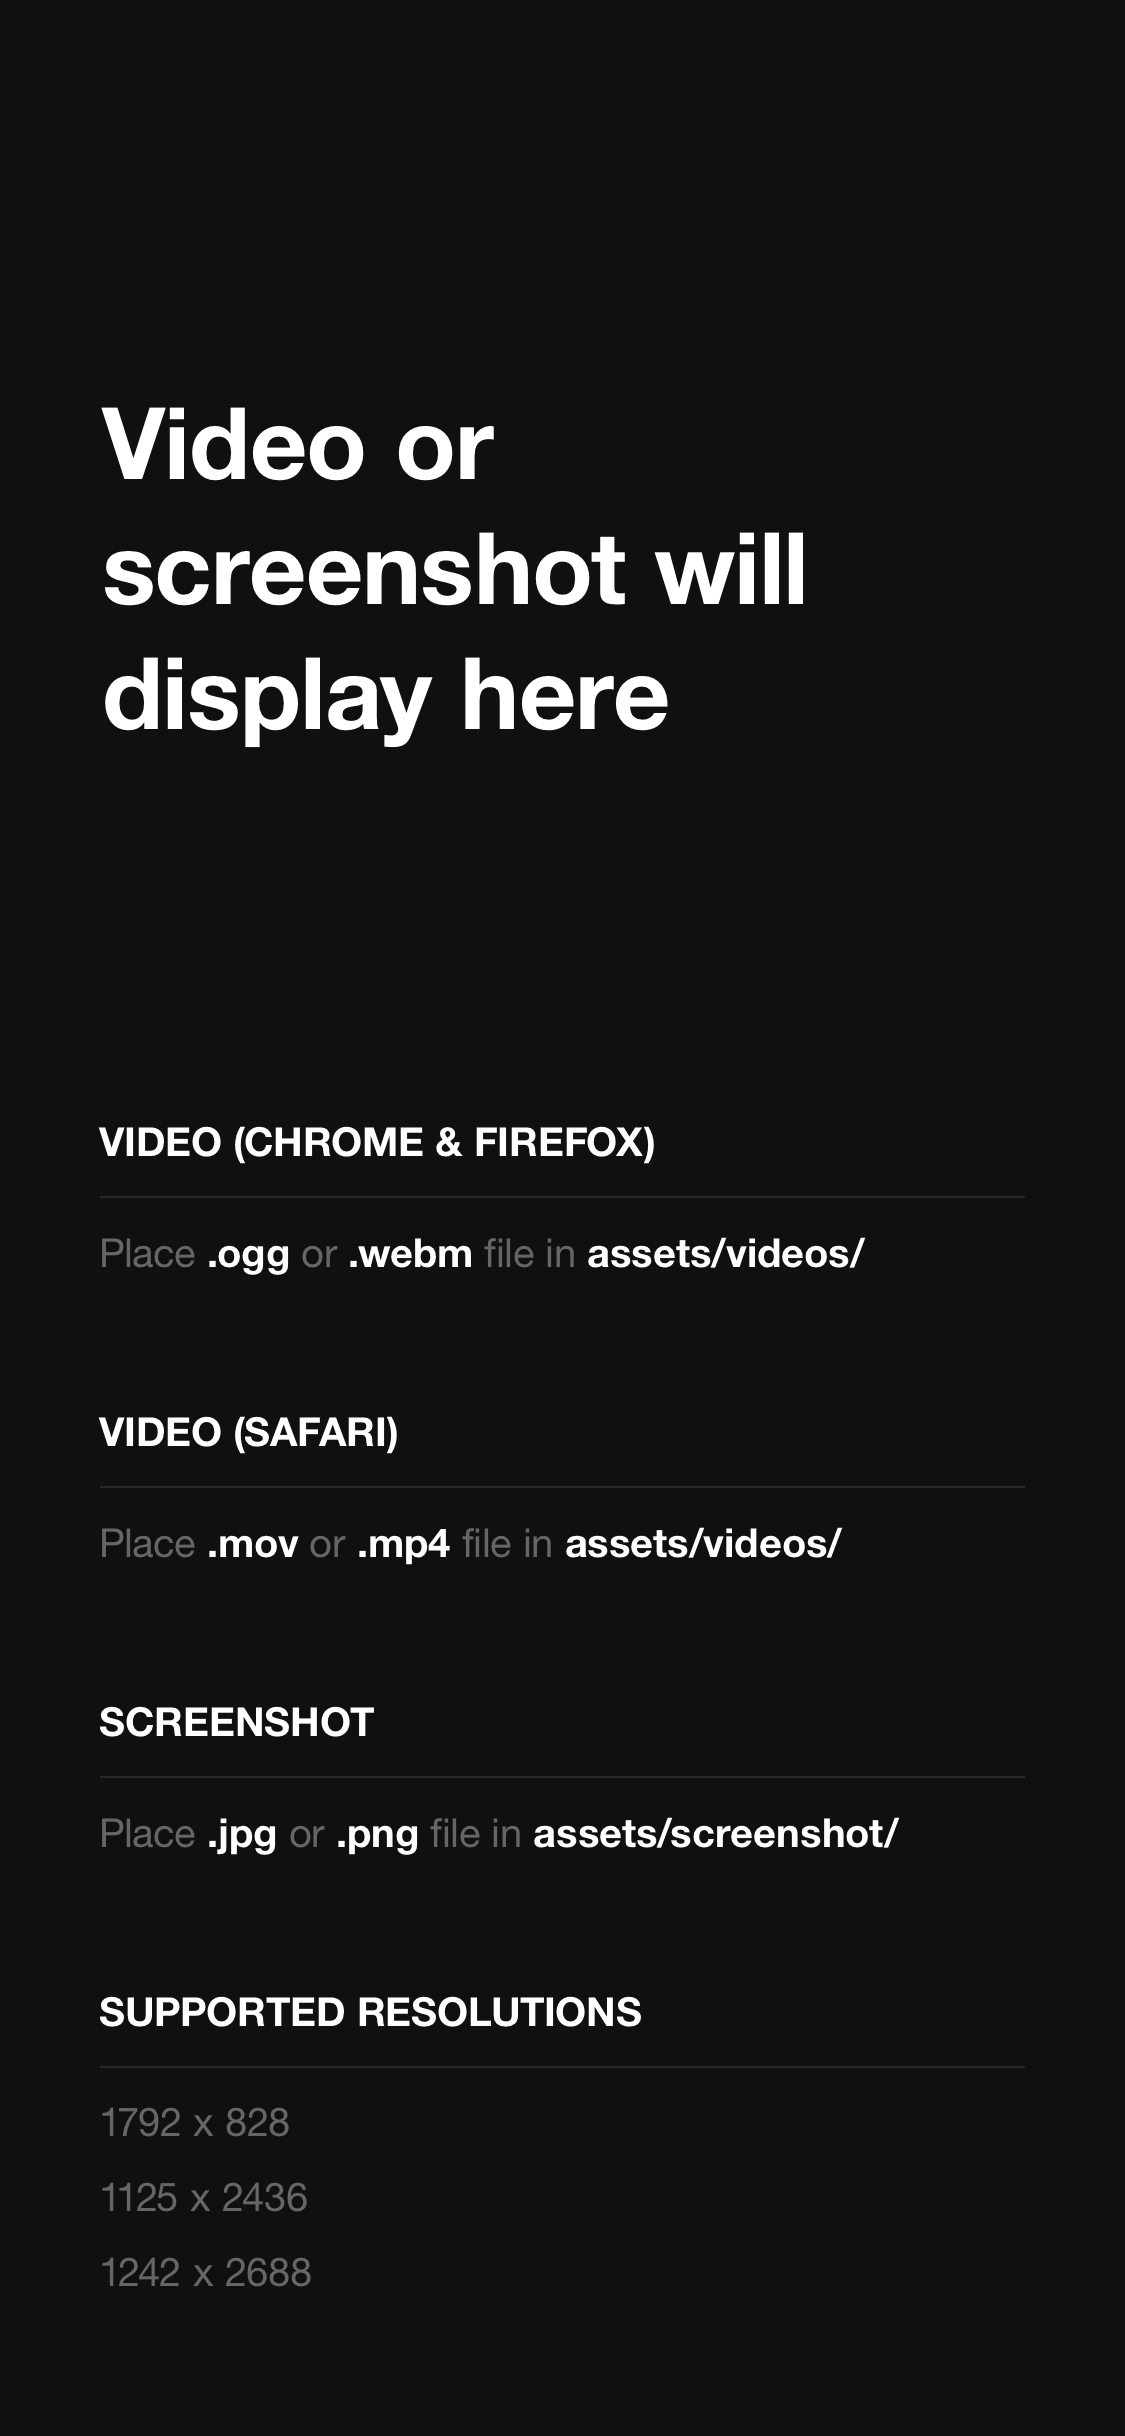
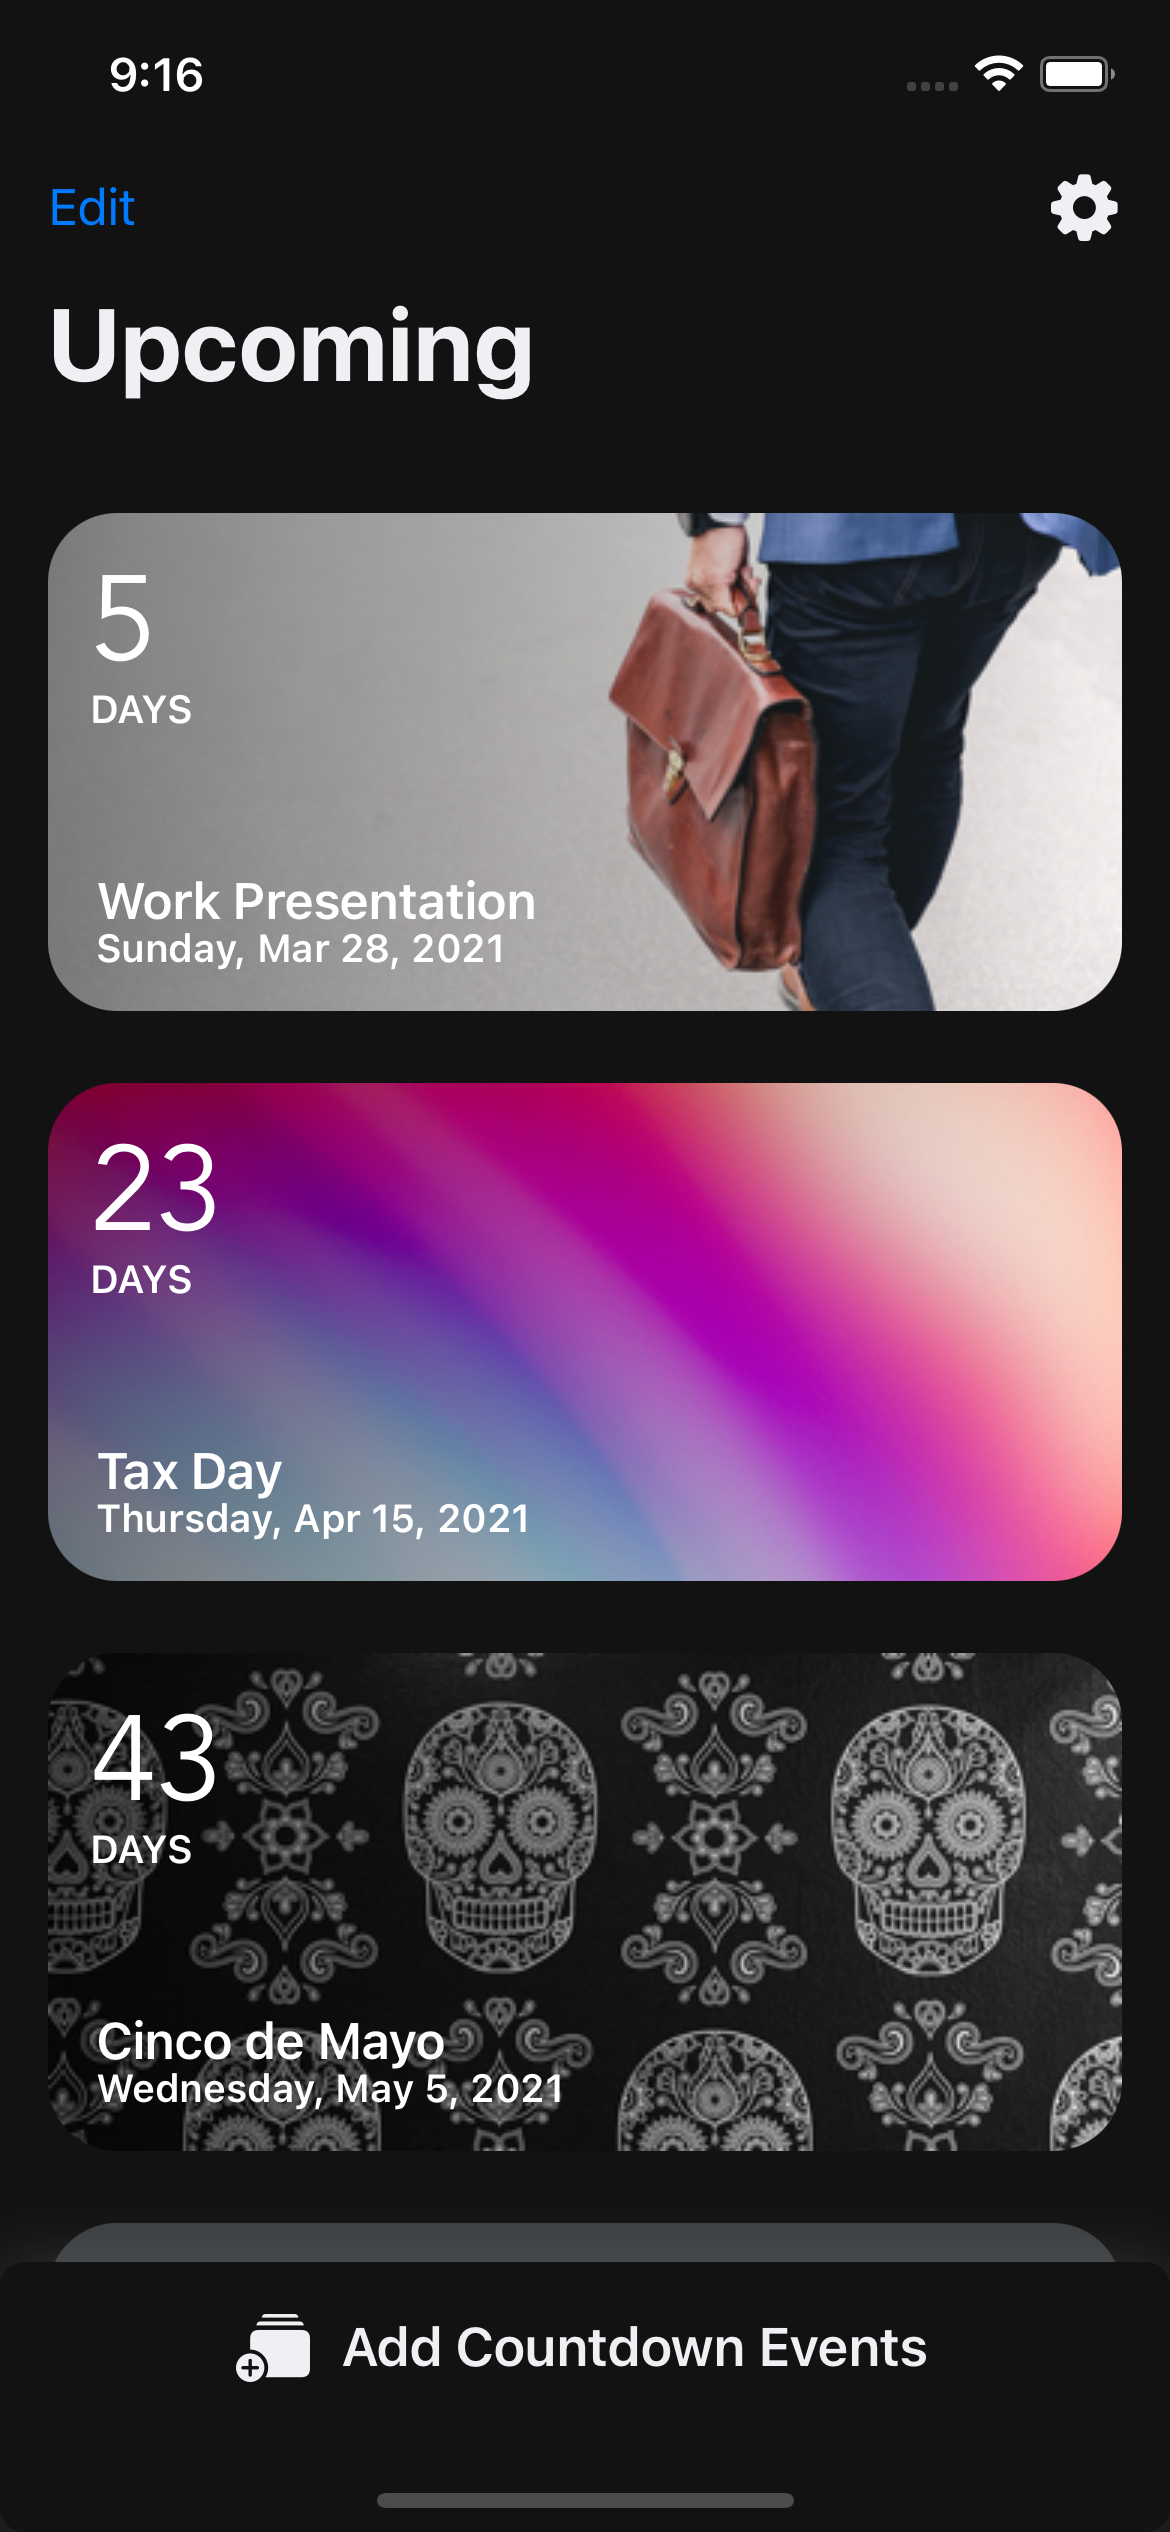
small change fixing the title and wrong links

diff --git a/_layouts/welcome.html b/_layouts/welcome.html
@@ -10,19 +10,57 @@
 <body class="subPageBody">
     <div class="headerBackground subPageHeaderBackground">
         <div class="container subPageContainer">
-        {% include header.html %}
+            {% include welcomeHeader.html %}
             <article class="page markdown-body">
                 {{ content }}
                 <img src="/assets/website_profile.png" style="float: right; max-width: 200px;" alt="">
                 <h1 style="font-size: 5em;">Ben Pust</h1>
                 <p style="font-size: 1.1em; font-weight: 500; padding: 0 1em;">Software engineer at <a href="#">Fieldwire</a>.</p>
                 <p style="font-size: 1.1em; padding: 0 1.4em; text-align: center;">I use this website to show the random collection of products I built and work on in the free time.</p>
-
+                
             </article>
         </div>
-        {% include appstoreimages.html %}
-    
-      </div>
+
+        <div class="footerIcons">
+        
+            {% if site.facebook_username %}
+            <a href="https://facebook.com/{{ site.facebook_username }}">
+                <span class="fa-stack fa-1x">
+                    <i class="socialIconBack fas fa-circle fa-stack-2x"></i>
+                    <i class="socialIconTop fab fa-facebook fa-stack-1x"></i>
+                </span>
+            </a>
+            {% endif %}
+            
+            {% if site.twitter_username %}
+            <a href="https://twitter.com/{{ site.twitter_username }}">
+                <span class="fa-stack fa-1x">
+                    <i class="socialIconBack fas fa-circle fa-stack-2x"></i>
+                    <i class="socialIconTop fab fa-twitter fa-stack-1x"></i>
+                </span>
+            </a>
+            {% endif %}
+            
+            {% if site.github_username %}
+            <a href="https://github.com/{{ site.github_username }}">
+                <span class="fa-stack fa-1x">
+                    <i class="socialIconBack fas fa-circle fa-stack-2x"></i>
+                    <i class="socialIconTop fab fa-github fa-stack-1x"></i>
+                </span>
+            </a>
+            {% endif %}
+            
+            {% if site.email_address %}
+            <a href="mailto:{{ site.email_address }}">
+                <span class="fa-stack fa-1x">
+                    <i class="socialIconBack fas fa-circle fa-stack-2x"></i>
+                    <i class="socialIconTop fas fa-envelope fa-stack-1x"></i>
+                </span>
+            </a>
+            {% endif %}
+            
+        </div>
+    </div>
 </body>
 
 </html>

diff --git a/_includes/welcomeHeader.html b/_includes/welcomeHeader.html
@@ -1,0 +1,30 @@
+<header>
+	<div class="logo">
+		<div class="appIconShadow">
+			<svg width="0" height="0">
+				<defs>
+					<clipPath id="shape">
+							<path id="shape" class="cls-1" d="M6181.23,233.709v-1.792c0-.5-0.02-1-0.02-1.523a24.257,24.257,0,0,0-.28-3.3,11.207,11.207,0,0,0-1.04-3.132,10.683,10.683,0,0,0-1.95-2.679,10.384,10.384,0,0,0-2.68-1.943,10.806,10.806,0,0,0-3.13-1.038,19.588,19.588,0,0,0-3.3-.285c-0.5-.017-1-0.017-1.52-0.017h-22.39c-0.51,0-1.01.017-1.53,0.017a24.041,24.041,0,0,0-3.3.285,11.009,11.009,0,0,0-3.13,1.038,10.491,10.491,0,0,0-4.62,4.622,10.893,10.893,0,0,0-1.04,3.132,19.2,19.2,0,0,0-.28,3.3c-0.02.5-.02,1-0.02,1.523v22.392c0,0.5.02,1,.02,1.524a24.257,24.257,0,0,0,.28,3.3,10.9,10.9,0,0,0,1.04,3.132,10.491,10.491,0,0,0,4.62,4.622,11.04,11.04,0,0,0,3.13,1.038,19.891,19.891,0,0,0,3.3.285c0.51,0.017,1.01.017,1.53,0.017h22.39c0.5,0,1-.017,1.52-0.017a24.221,24.221,0,0,0,3.3-.285,10.836,10.836,0,0,0,3.13-1.038,10.408,10.408,0,0,0,2.68-1.943,10.683,10.683,0,0,0,1.95-2.679,11.217,11.217,0,0,0,1.04-3.132,20.257,20.257,0,0,0,.28-3.3c0.02-.5.02-1,0.02-1.524v-20.6h0Z" transform="translate(-6131 -218)"/>
+					</clipPath>
+				</defs>
+			</svg>
+
+				<img class="headerIcon" src="assets/logo.png">
+
+			<div class="divider"></div>
+		</div>
+		<p class="headerName">{{ site.your_name }}</p>
+	</div>
+	<nav class="scroll">
+		<ul>
+			{% for page in site.pages %}
+				{% if page.include_in_header == true %}
+				<li><a href="{{ page.url | relative_url }}" target="_self">{{ page.title }}</a></li>
+				{% endif %}
+			{% endfor %}
+			{% if site.presskit_download_link %}
+				<li><a href="{{ site.presskit_download_link }}">Press Kit</a></li>
+			{% endif %}
+		</ul>
+	</nav>
+</header>

diff --git a/_layouts/default.html b/_layouts/default.html
@@ -54,7 +54,7 @@
                             {% if site.playstore_link %}
                                 <a class="playStoreLink" href="{{site.playstore_link}}"><img class="playStore" src="assets/playstore.png"></a>
                             {% endif %}
-                            <a class="appStoreLink" href="{{site.appstore_link}}"><img class="appStore" src="assets/appstore.png"></a>
+                            <a class="appStoreLink" href="{{site.appstore_link}}"><img class="appStore" src="/assets/appstore.png"></a>
                         </div>
                     </div>
                     {% include features.html %}

diff --git a/_sass/layout.scss b/_sass/layout.scss
@@ -129,8 +129,8 @@ header {
 .headerIcon {
 	width: 50px;
 	height: 50px;
-	-webkit-clip-path: url(#shape);
-	clip-path: url(#shape);
+	// -webkit-clip-path: url(#shape);
+	// clip-path: url(#shape);
 }
 
 @media only screen and (max-width: 768px) {
